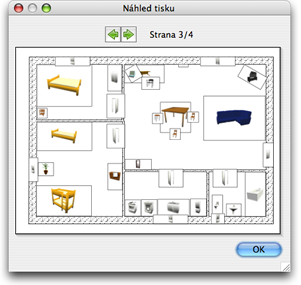
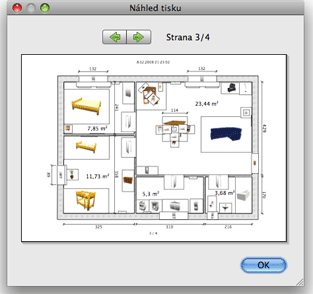
Updated 1.5 Czech version (needs probably some fix)

diff --git a/SweetHome3D/src/com/eteks/sweethome3d/viewcontroller/resources/help/cs/printingHome.html b/SweetHome3D/src/com/eteks/sweethome3d/viewcontroller/resources/help/cs/printingHome.html
@@ -33,11 +33,11 @@
 							<br>
 							
        Chcete-li změnit toto nastavení, vyberte nabídku <i>Projekt &gt; Nastavení stránky...</i>.</p>
-      <p align="center"><img src="images/pageSetup.png" alt="Page setup" width="191" height="142"></p>
+      <p align="center"><img src="images/pageSetup.png" alt="Page setup" width="262" height="259"></p>
       <p> V okně nastavení stránky můžete kliknutím na <i>Formát strany</i> měnit velikost papíru a jeho orientaci.
        Rovněž můžete zvolit, zda chcete tisknout seznam nábytku, plán a 3D náhled projektu.</p>
       <p>K náhledu tisku strany slouží nabídka <i>Projekt &gt; Náhled tisku ...</i>.</p>
-      <p align="center"><img src="images/printPreview.png" alt="Print preview" width="301" height="285"></p>
+      <p align="center"><img src="images/printPreview.png" alt="Print preview" width="313" height="294"></p>
       <p>V okně náhledu tisku uvidíte, jak bude projekt vytištěn na straně za stranou. K pohybu v náhledu používejte tlačítka šipek, případně šipky klávesnice.</p></td>
   </tr>
 </table>

diff --git a/SweetHome3D/src/com/eteks/sweethome3d/viewcontroller/resources/help/cs/editingWalls.html b/SweetHome3D/src/com/eteks/sweethome3d/viewcontroller/resources/help/cs/editingWalls.html
@@ -74,7 +74,7 @@
 Při stisku tlačítka myši se zobrazí kontextová nápověda zobrazující délku vybrané zdi.<br>
         Veškeré úpravy zdí ve 2D plánu projektu se automaticky projevují ve 3D náhledu.</p>
         <p>Zdi můžete rovněž upravovat pomocí okna, které spustíte buď dvojitým kliknutím na vybrané zdi v plánu, nebo po označení zdi nabídkou  <i>Plán &gt; Upravit zdi...</i>.</p>
-        <p align="center"><img src="images/editingWalls.png" width="358" height="465"></p>
+        <p align="center"><img src="images/editingWalls.png" width="356" height="465"></p>
         <p>V okně úpravy zdí můžete měnit&nbsp;umístěn počátečního a konečného bodu zdi, barvu nebo texturu její levé i pravé strany, její tloušťku a výšku.<br>
 
           Jedná-li se o šikmou zeď, použijte jinou výšku jejího počátečního i konečného bodu a ujistěte se, že jste označili políčko <i>Šikmá zeď</i>.<br>

diff --git a/SweetHome3D/src/com/eteks/sweethome3d/viewcontroller/resources/help/cs/editingFurniture.html b/SweetHome3D/src/com/eteks/sweethome3d/viewcontroller/resources/help/cs/editingFurniture.html
@@ -75,7 +75,7 @@
   Změny nábytku pomocí myši jsou okamžitě promítány do 2D plánu i do 3D náhledu.</p>
 	  <p>Nábytek může být měněn rovněž prostřednictvím okna, které zobrazíte dvojitým kliknutím na vybraný nábytek v plánu projektu nebo v seznamu nábytku,
 	  případně nabídkou <i>Nábytek &gt; Upravit...</i>.</p>
-	  <p align="center"><img src="images/editingFurniture.png" alt="Upravit nábytek" width="432" height="153"></p>
+	  <p align="center"><img src="images/editingFurniture.png" alt="Upravit nábytek" width="384" height="215"></p>
 	  <p>V okně nábytku lze měnit jeho název, úhel otáčení, souřadnici X nebo Y jeho středu, nadzvednutí jeho dna od podlahy, šířku, hloubku, výšku, barvu, viditelnost, a zda má být tvar jeho 3D modelu zrcadlový.<br>
 
 							

diff --git a/SweetHome3D/src/com/eteks/sweethome3d/viewcontroller/resources/help/cs/editing3DView.html b/SweetHome3D/src/com/eteks/sweethome3d/viewcontroller/resources/help/cs/editing3DView.html
@@ -79,7 +79,7 @@
 Umístění virtuálního návštěvníka můžete taktéž změnit z plánu pomocí chycení a přetažení, nebo jeho vybráním a použitím klávesových šipek. </p>
         <p>Další nastavení 3D náhledu je možné upravit v nabídce <i>3D
           náhled &gt; Upravit ...</i>.</p>
-        <p align="center"><img src="images/editing3DView.png" width="373" height="209"></p>
+        <p align="center"><img src="images/editing3DView.png" width="390" height="215"></p>
         <p>V okně 3D náhledu lze měnit&nbsp;návštěvníkův úhel pohledu, jeho výšku, barvu a textury nebe a podlahy a také intenzitu světla či průhlednost stěn.<br>
 							<br>
 							
